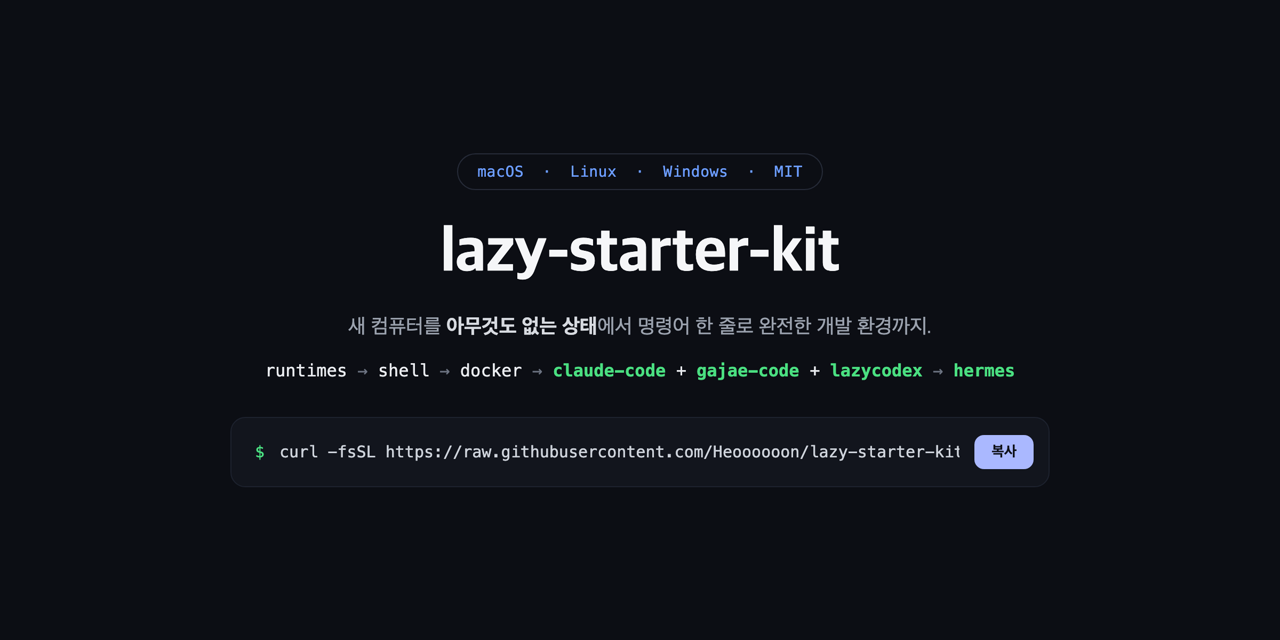
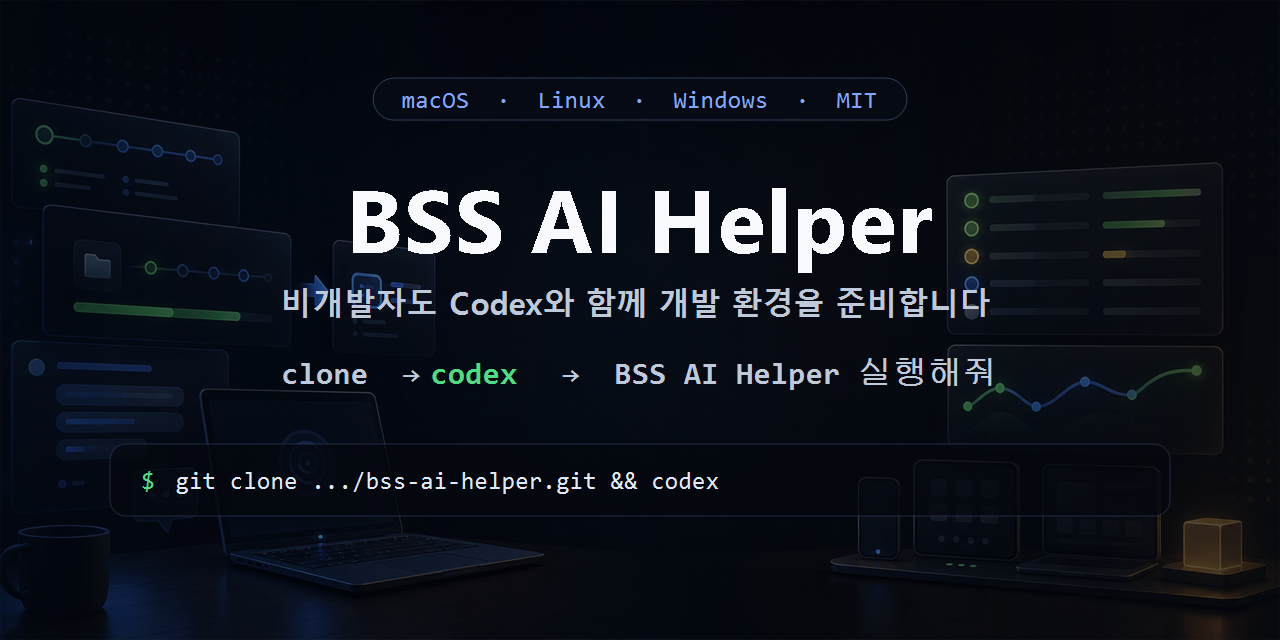
Add BSS AI Helper preview images

diff --git a/README.md b/README.md
@@ -1,5 +1,7 @@
 # BSS AI Helper
 
+![BSS AI Helper banner](docs/banner.png)
+
 BSS AI Helper는 비개발자도 Codex에서 질문에 답하며 개발 환경을 준비할 수 있게 돕는 설치 도우미입니다. 설치 방법만 안내하고 끝내지 않고, 사용자가 승인하면 가능한 범위에서 직접 설치를 시도합니다. 권한이 막히면 무엇을 허용해야 하는지 알려주고 다시 진행할 수 있게 합니다.
 
 ## 출처와 변경 이력